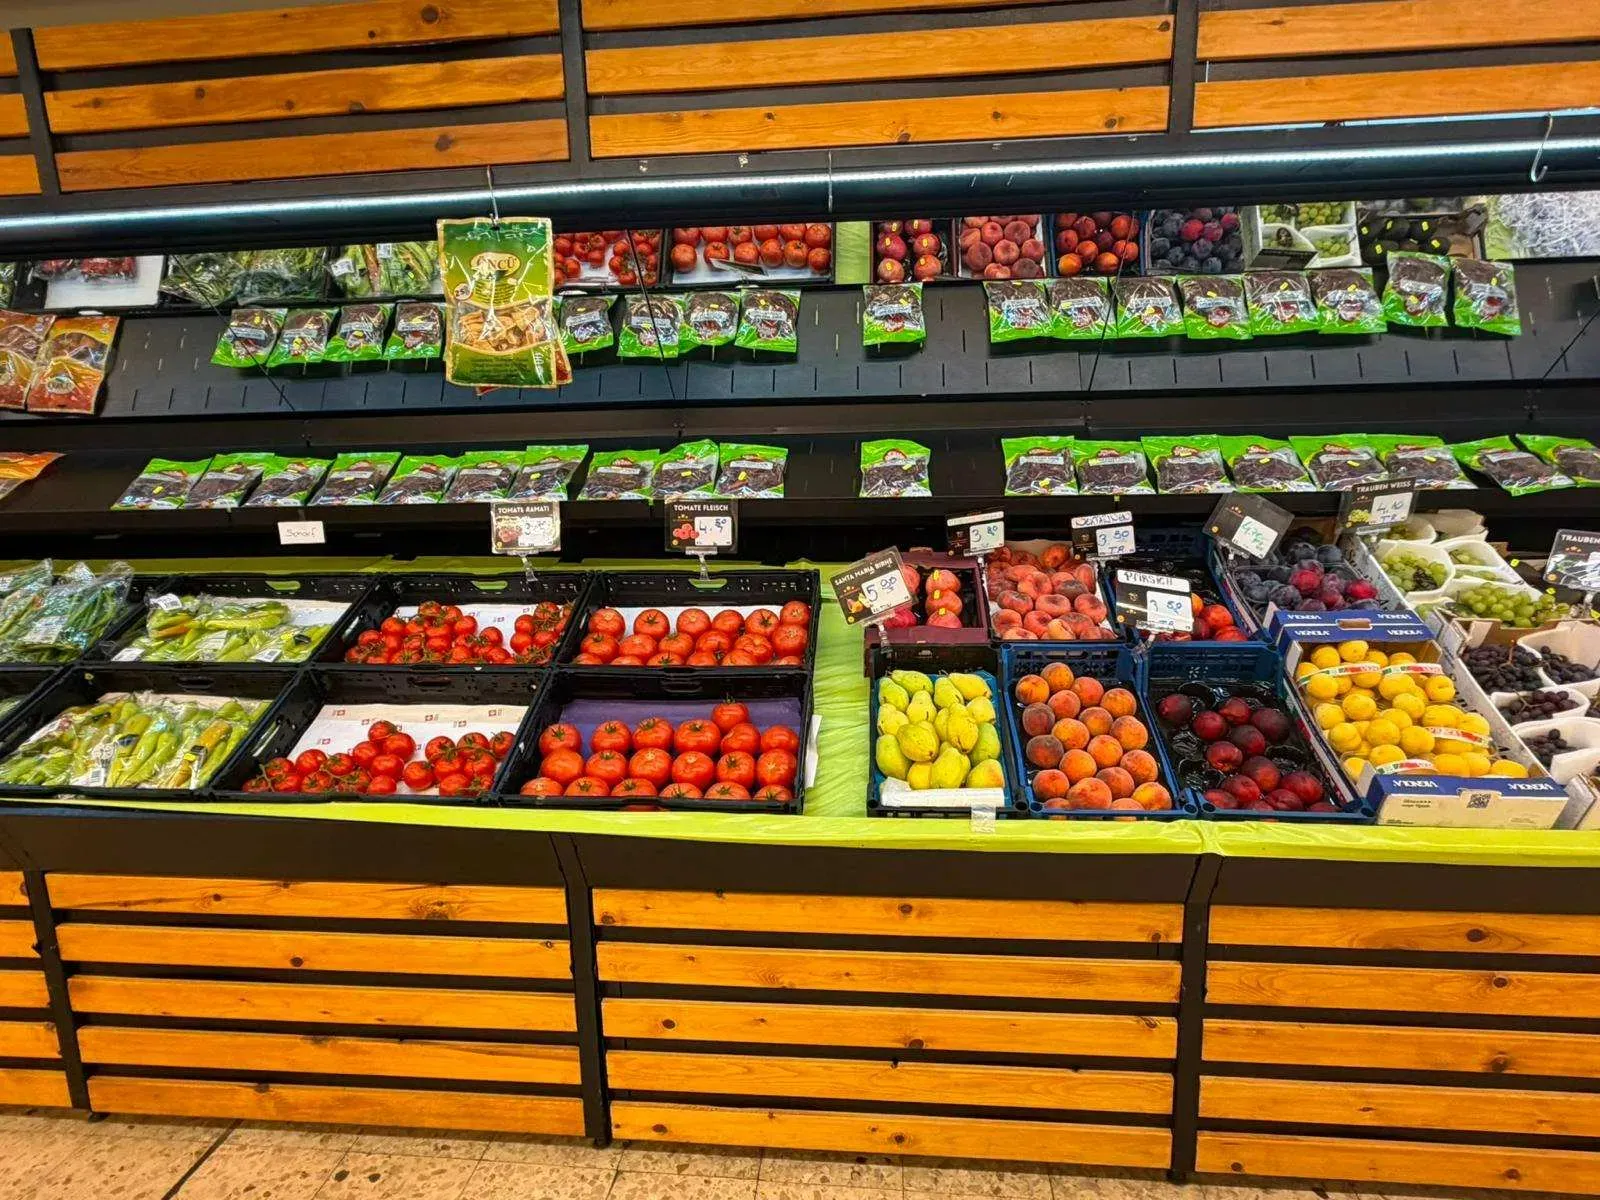
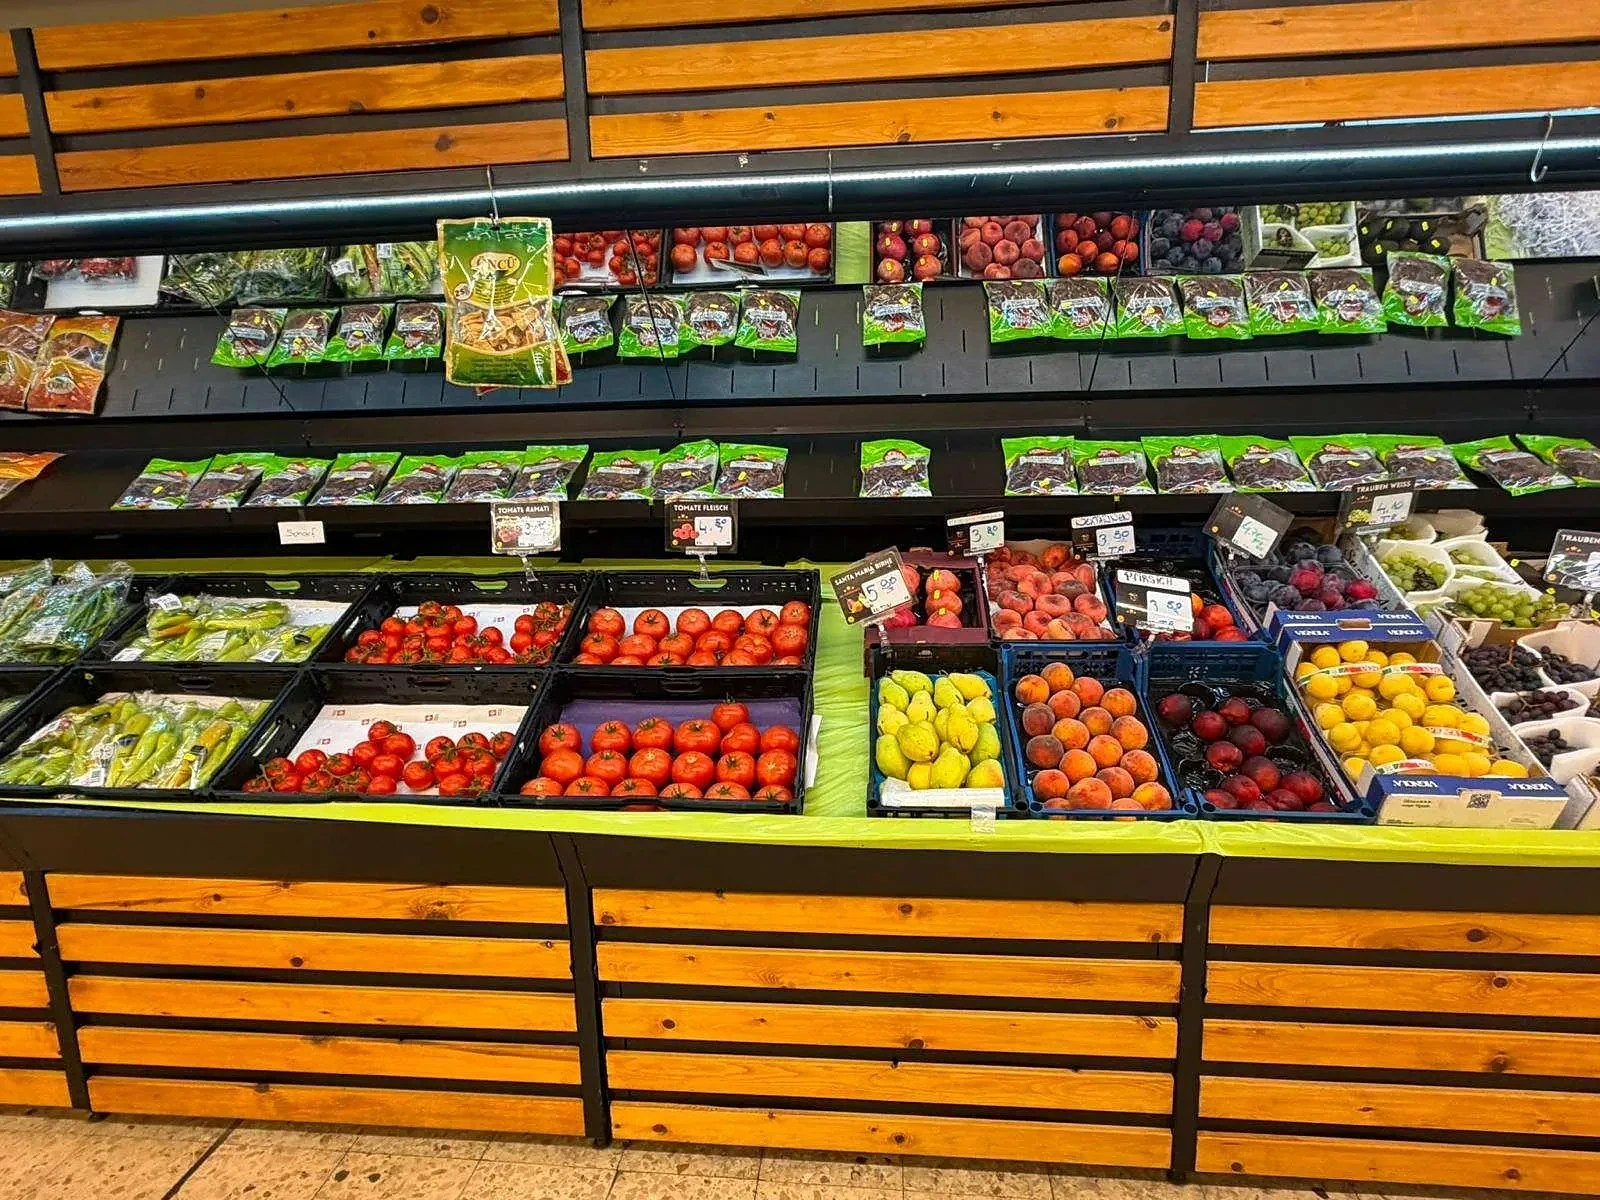
Use a head-on shot of the produce shelf in the slider

diff --git a/src/components/HeroSlider.tsx b/src/components/HeroSlider.tsx
@@ -7,7 +7,7 @@ export type Slide = { src: string; alt: string };
 
 const DEFAULT_SLIDES: Slide[] = [
   { src: "/images/kasap/lammkoteletts-theke.webp", alt: "Frische Halal-Fleischauswahl von Ali Supermarkt" },
-  { src: "/images/obst-gemuese/obst-gemuese-03.webp", alt: "Obstinsel mit Äpfeln, Melonen und Trauben bei Ali Supermarkt" },
+  { src: "/images/obst-gemuese/obst-gemuese-12.webp", alt: "Obst- und Gemüseregal mit Tomaten, Peperoni und Orangen bei Ali Supermarkt" },
   { src: "/images/getraenke/getraenke-06.webp", alt: "Regal mit Fruchtsäften und Erfrischungsgetränken bei Ali Supermarkt" },
   { src: "/images/internationale-spezialitaeten/internationale-spezialitaeten-01.webp", alt: "Salça, Konserven und internationale Spezialitäten bei Ali Supermarkt" },
   { src: "/images/grundnahrungsmittel/grundnahrungsmittel-01.webp", alt: "Reis, Teigwaren und Grundnahrungsmittel bei Ali Supermarkt" },
